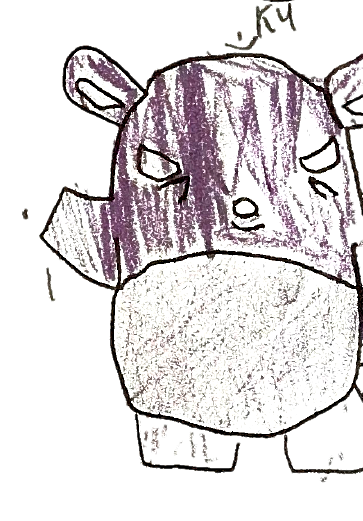
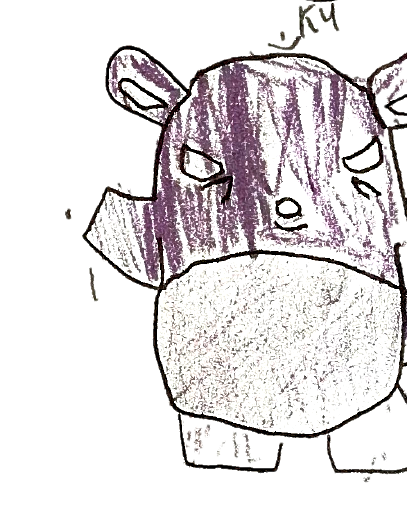
Adjust crop bounding boxes for Baku and Kuromi to avoid physical slicing and neighbor intrusion

diff --git a/test_boxes.py b/test_boxes.py
@@ -1,0 +1,47 @@
+import cv2
+import os
+
+img_path = 'Dipindai_20260624-0934_page-0001.jpg'
+img = cv2.imread(img_path)
+h, w = img.shape[:2]
+
+boxes = {
+    "collimo": (0.72, 0.05, 0.23, 0.20),
+    "nyanmi": (0.13, 0.32, 0.25, 0.26),
+    "kuromi": (0.33, 0.30, 0.32, 0.28),
+    "romina": (0.62, 0.30, 0.25, 0.28),
+    "bako": (0.83, 0.46, 0.16, 0.16),
+    "gareco": (0.02, 0.54, 0.30, 0.26),
+    "koni": (0.37, 0.60, 0.20, 0.16),
+    "chumi": (0.22, 0.72, 0.20, 0.15),
+    "konmi": (0.48, 0.68, 0.15, 0.17),
+    "baku": (0.58, 0.58, 0.25, 0.25),
+    "wanmi": (0.82, 0.63, 0.18, 0.18),
+}
+
+# Adjusted boxes
+adjusted_boxes = {
+    "collimo": (0.72, 0.05, 0.23, 0.20),
+    "nyanmi": (0.13, 0.32, 0.24, 0.26),
+    "kuromi": (0.35, 0.30, 0.27, 0.28),  # Shifted right, narrower
+    "romina": (0.62, 0.30, 0.22, 0.28),
+    "bako": (0.84, 0.46, 0.15, 0.16),
+    "gareco": (0.02, 0.54, 0.30, 0.26),
+    "koni": (0.37, 0.60, 0.20, 0.16),
+    "chumi": (0.22, 0.72, 0.20, 0.15),
+    "konmi": (0.48, 0.68, 0.13, 0.17),
+    "baku": (0.55, 0.58, 0.27, 0.25),    # Shifted left, wider
+    "wanmi": (0.82, 0.63, 0.18, 0.18),
+}
+
+for name, (rx, ry, rw, rh) in adjusted_boxes.items():
+    x = int(rx * w)
+    y = int(ry * h)
+    bw = int(rw * w)
+    bh = int(rh * h)
+    
+    cv2.rectangle(img, (x, y), (x+bw, y+bh), (0, 255, 0), 5)
+    cv2.putText(img, name, (x, y-10), cv2.FONT_HERSHEY_SIMPLEX, 2, (0, 0, 255), 4)
+
+cv2.imwrite("debug_boxes.jpg", img)
+print("Saved debug_boxes.jpg")

diff --git a/process_image2.py b/process_image2.py
@@ -10,14 +10,14 @@ h, w = img.shape[:2]
 boxes = {
     "collimo": (0.72, 0.05, 0.23, 0.20),
     "nyanmi": (0.13, 0.32, 0.25, 0.26),
-    "kuromi": (0.33, 0.30, 0.32, 0.28),
+    "kuromi": (0.35, 0.30, 0.27, 0.28),
     "romina": (0.62, 0.30, 0.25, 0.28),
     "bako": (0.83, 0.46, 0.16, 0.16),
     "gareco": (0.02, 0.54, 0.30, 0.26),
     "koni": (0.37, 0.60, 0.20, 0.16),
     "chumi": (0.22, 0.72, 0.20, 0.15),
     "konmi": (0.48, 0.68, 0.15, 0.17),
-    "baku": (0.58, 0.58, 0.25, 0.25),
+    "baku": (0.55, 0.58, 0.28, 0.25),
     "wanmi": (0.82, 0.63, 0.18, 0.18),
 }
 